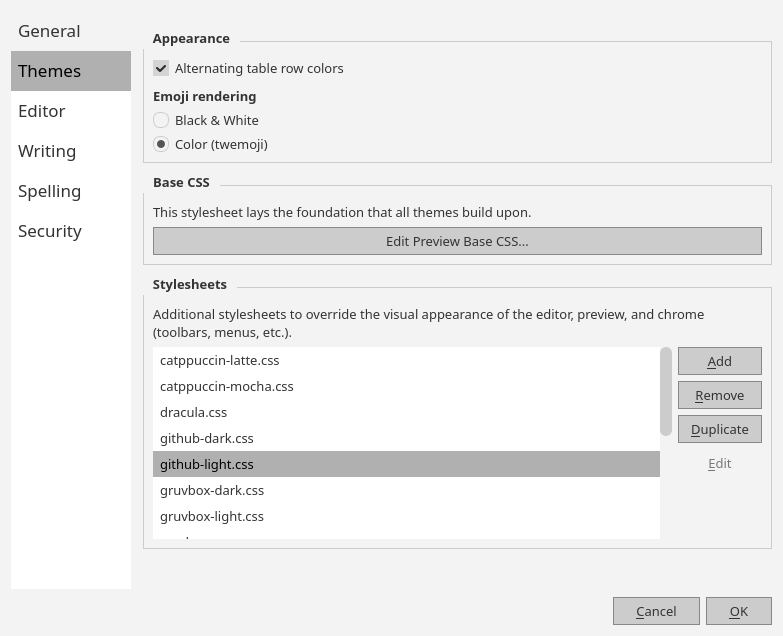
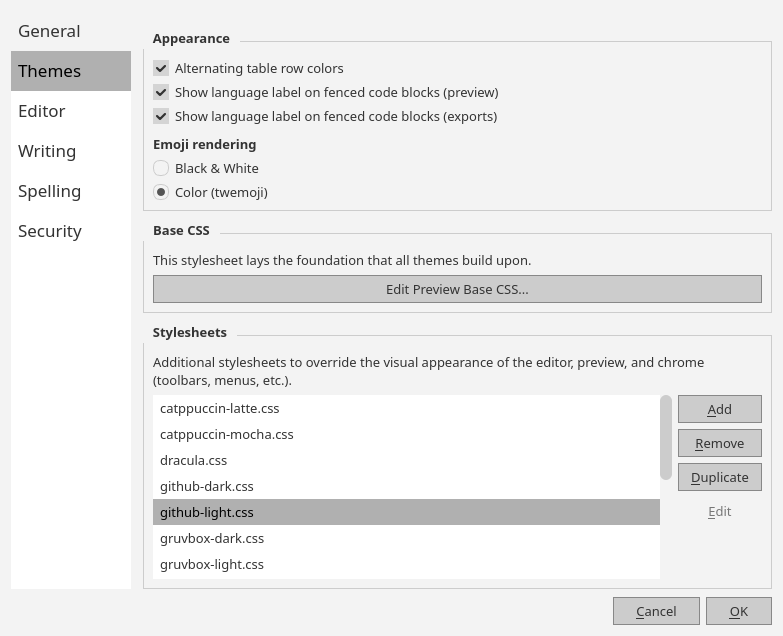
feat: user to show/hide the language name on codeblocks

Changed region(s): [[0.1839, 0.1195, 0.9808, 0.8962]]

diff --git a/src/MainWindow.cpp b/src/MainWindow.cpp
@@ -143,6 +143,7 @@ MainWindow::MainWindow(QWidget *parent, bool skipSessionRestore)
         m_cssLoader->invalidateCache();
         refreshPreviewCss();
         applyStripeSetting();
+        applyCodeLangSetting();
     } else if (m_cssConfig->activeStylesheet().isEmpty()) {
         m_cssConfig->setActiveStylesheet(":/themes/github-light.css");
         m_cssLoader->invalidateCache();
@@ -942,6 +943,21 @@ void MainWindow::applyStripeSetting()
     m_preview->page()->runJavaScript(js);
 }
 
+void MainWindow::applyCodeLangSetting()
+{
+    if (!m_previewInitialized)
+        return;
+    QSettings settings;
+    bool enabled = settings.value(Preferences::ShowCodeLangPreview, true).toBool();
+    QString css = enabled ? QString()
+        : QLatin1String(Preferences::HideCodeLangCss);
+    QString js = QString(
+        "var e=document.getElementById('code-lang-css');"
+        "if(e)e.textContent='%1';"
+    ).arg(escapeJsString(css));
+    m_preview->page()->runJavaScript(js);
+}
+
 void MainWindow::applyEditorContentWidth(Editor *editor)
 {
     if (!editor)
@@ -1017,6 +1033,9 @@ void MainWindow::updatePreview()
         bool striping = prefs.value(Preferences::TableStriping, true).toBool();
         QString stripeInit = striping ? QString()
             : QLatin1String(Preferences::TableStripeCss);
+        bool showCodeLang = prefs.value(Preferences::ShowCodeLangPreview, true).toBool();
+        QString codeLangInit = showCodeLang ? QString()
+            : QLatin1String(Preferences::HideCodeLangCss);
         QString centerCss;
         if (m_previewState == 3) {
             bool centre = prefs.value(Preferences::CentreSingleViewContent, true).toBool();
@@ -1036,6 +1055,7 @@ void MainWindow::updatePreview()
             "<style id=\"stripe-css\">%4</style>"
             "<style id=\"center-css\">%5</style>"
             "<style id=\"split-css\">%6</style>"
+            "<style id=\"code-lang-css\">%7</style>"
             "<style>" DEFAULT_EMOJI_FONT "#preview .emoji-char{font-family:'Symbola',monospace}.emoji{height:1em;width:1em;vertical-align:-0.1em;display:inline-block}</style>"
             "<script src=\"qrc:///highlight.min.js\"></script>"
             "<script src=\"qrc:///mermaid.min.js\"></script>"
@@ -1056,7 +1076,7 @@ void MainWindow::updatePreview()
             "window.location.hash='scriba-open:'+encodeURIComponent(l.href)"
             "})</script>"
             "</body></html>"
-        ).arg(baseCss, previewCss, html, stripeInit, centerCss, splitCss);
+        ).arg(baseCss, previewCss, html, stripeInit, centerCss, splitCss, codeLangInit);
         if (cspEnabled) {
             int headEnd = fullHtml.indexOf("</head>");
             if (headEnd >= 0)
@@ -1100,6 +1120,7 @@ void MainWindow::showPreferences()
         syncCssWatcher();
         refreshPreviewCss();
         applyStripeSetting();
+        applyCodeLangSetting();
     };
     connect(&dlg, &PreferencesDialog::stylesheetChanged, this, updateAll);
     connect(&dlg, &PreferencesDialog::editorSettingsChanged, this,
@@ -1774,6 +1795,8 @@ void MainWindow::exportDocx()
     if (prefs.value(Preferences::StripExportScripts, true).toBool())
         html = JsRenderEngine::stripScriptTags(html);
     QString css = m_cssLoader->previewBaseCss() + "\n" + m_cssLoader->themeCss();
+    if (!prefs.value(Preferences::ShowCodeLangExport, true).toBool())
+        css += QStringLiteral("\n") + QLatin1String(Preferences::HideCodeLangCss);
 
     QString emojiMode = prefs.value(Preferences::EmojiMode,
         Preferences::emojiRenderingToString(Preferences::EmojiRendering::Bw)).toString();
@@ -1892,6 +1915,9 @@ void MainWindow::exportHtml()
     // Responsive SVG rule for Vega-Lite charts (baked-in SVG width needs to scale)
     exportCss += QStringLiteral(
         "\n.vega-lite-chart svg{max-width:100%;height:auto;width:auto!important}");
+
+    if (!prefs.value(Preferences::ShowCodeLangExport, true).toBool())
+        exportCss += QStringLiteral("\n") + QLatin1String(Preferences::HideCodeLangCss);
 
     // Include KaTeX CSS so math renders correctly without external dependencies
     QString katexCss = JsRenderEngine::katexCss();

diff --git a/src/PreferencesDialog.cpp b/src/PreferencesDialog.cpp
@@ -248,6 +248,14 @@ void PreferencesDialog::setupUi(const QString &themeBgColor, const QString &them
         m_stripeCheck->setChecked(settings.value(Preferences::TableStriping, true).toBool());
         appearanceLayout->addWidget(m_stripeCheck);
 
+        m_showCodeLangPreviewCheck = new QCheckBox("Show language label on fenced code blocks (preview)");
+        m_showCodeLangPreviewCheck->setChecked(settings.value(Preferences::ShowCodeLangPreview, true).toBool());
+        appearanceLayout->addWidget(m_showCodeLangPreviewCheck);
+
+        m_showCodeLangExportCheck = new QCheckBox("Show language label on fenced code blocks (exports)");
+        m_showCodeLangExportCheck->setChecked(settings.value(Preferences::ShowCodeLangExport, true).toBool());
+        appearanceLayout->addWidget(m_showCodeLangExportCheck);
+
         appearanceLayout->addSpacing(4);
         auto *emojiLabel = new QLabel("<b>Emoji rendering</b>");
         appearanceLayout->addWidget(emojiLabel);
@@ -958,6 +966,8 @@ void PreferencesDialog::setupUi(const QString &themeBgColor, const QString &them
         settings.setValue(Preferences::ReopenLastSession, m_reopenCheck->isChecked());
         settings.setValue(Preferences::SyncScroll, m_syncCheck->isChecked());
         settings.setValue(Preferences::TableStriping, m_stripeCheck->isChecked());
+        settings.setValue(Preferences::ShowCodeLangPreview, m_showCodeLangPreviewCheck->isChecked());
+        settings.setValue(Preferences::ShowCodeLangExport, m_showCodeLangExportCheck->isChecked());
         settings.setValue(Preferences::EmojiMode,
     Preferences::emojiRenderingToString(m_emojiBw->isChecked() ? Preferences::EmojiRendering::Bw : Preferences::EmojiRendering::Color));
         settings.setValue(Preferences::EmojiAutoComplete, m_emojiAutoCompleteCheck->isChecked());

diff --git a/tests/test_pdf_export.cpp b/tests/test_pdf_export.cpp
@@ -64,6 +64,7 @@ protected:
     {
         QSettings s;
         s.setValue(Preferences::TableStriping, true);
+        s.setValue(Preferences::ShowCodeLangExport, true);
         s.setValue(Preferences::EmojiMode, Preferences::emojiRenderingToString(Preferences::EmojiRendering::Bw));
 
         config = new CssConfig();
@@ -132,6 +133,26 @@ TEST_F(PrintExportTest, BuildHtmlTableStripingEnabledOmitsOverride)
     QString html = PrintExportAccess::buildFullHtml(dlg, "/* stripped */");
 
     EXPECT_FALSE(html.contains("tr:nth-child(even)"));
+}
+
+TEST_F(PrintExportTest, BuildHtmlCodeLangExportDisabledInjectsOverride)
+{
+    QSettings s;
+    s.setValue(Preferences::ShowCodeLangExport, false);
+
+    QString html = PrintExportAccess::buildFullHtml(dlg, "/* code lang */");
+
+    EXPECT_TRUE(html.contains("pre[data-lang]::before{content:none}"));
+}
+
+TEST_F(PrintExportTest, BuildHtmlCodeLangExportEnabledOmitsOverride)
+{
+    QSettings s;
+    s.setValue(Preferences::ShowCodeLangExport, true);
+
+    QString html = PrintExportAccess::buildFullHtml(dlg, "/* code lang */");
+
+    EXPECT_FALSE(html.contains("pre[data-lang]::before{content:none}"));
 }
 
 TEST_F(PrintExportTest, BuildHtmlEmojiModeColor)

diff --git a/src/Preferences.h b/src/Preferences.h
@@ -84,6 +84,10 @@ namespace Preferences {
 
     constexpr const char *TableStripeCss = "tr:nth-child(even){background-color:transparent}";
     constexpr const char *TableStripePdfCss = "tr:nth-child(even),tr:nth-child(even) td{background-color:transparent !important}";
+    constexpr const char *HideCodeLangCss = "pre[data-lang]::before{content:none}";
+
+    constexpr const char *ShowCodeLangPreview = "showCodeLangPreview";
+    constexpr const char *ShowCodeLangExport = "showCodeLangExport";
 
     enum class EmojiRendering { Bw, Color };
 

diff --git a/src/ExportPdfDialog.cpp b/src/ExportPdfDialog.cpp
@@ -524,6 +524,10 @@ QString ExportPdfDialog::buildFullHtml(const QString &printCss) const
     if (!stripeCss.isEmpty())
         mergedCss += QStringLiteral("\n") + stripeCss;
 
+    bool showCodeLang = settings.value(Preferences::ShowCodeLangExport, true).toBool();
+    if (!showCodeLang)
+        mergedCss += QStringLiteral("\n") + QLatin1String(Preferences::HideCodeLangCss);
+
     QString emojiMode = settings.value(Preferences::EmojiMode,
         Preferences::emojiRenderingToString(Preferences::EmojiRendering::Bw)).toString();
 

diff --git a/src/MainWindow.h b/src/MainWindow.h
@@ -101,6 +101,7 @@ private:
     void applyStyleSheetToAllEditors();
     void applyStyleSheetToAllEditors(const QString &fontFamily, int fontSize, int padding);
     void applyStripeSetting();
+    void applyCodeLangSetting();
     void applyEditorContentWidth(Editor *editor);
     void applyPreviewSplitWidth();
     void showCenteredWarning(const QString &title, const QString &text, const QString &informative);

diff --git a/src/PreferencesDialog.h b/src/PreferencesDialog.h
@@ -93,6 +93,8 @@ private:
     QCheckBox *m_enableCspPreviewCheck;
     QCheckBox *m_enableCspExportCheck;
     QCheckBox *m_stripeCheck;
+    QCheckBox *m_showCodeLangPreviewCheck;
+    QCheckBox *m_showCodeLangExportCheck;
     QCheckBox *m_filenameAutoCompleteCheck;
     QCheckBox *m_autoSaveExitCheck;
     QCheckBox *m_autoSaveCheck;
